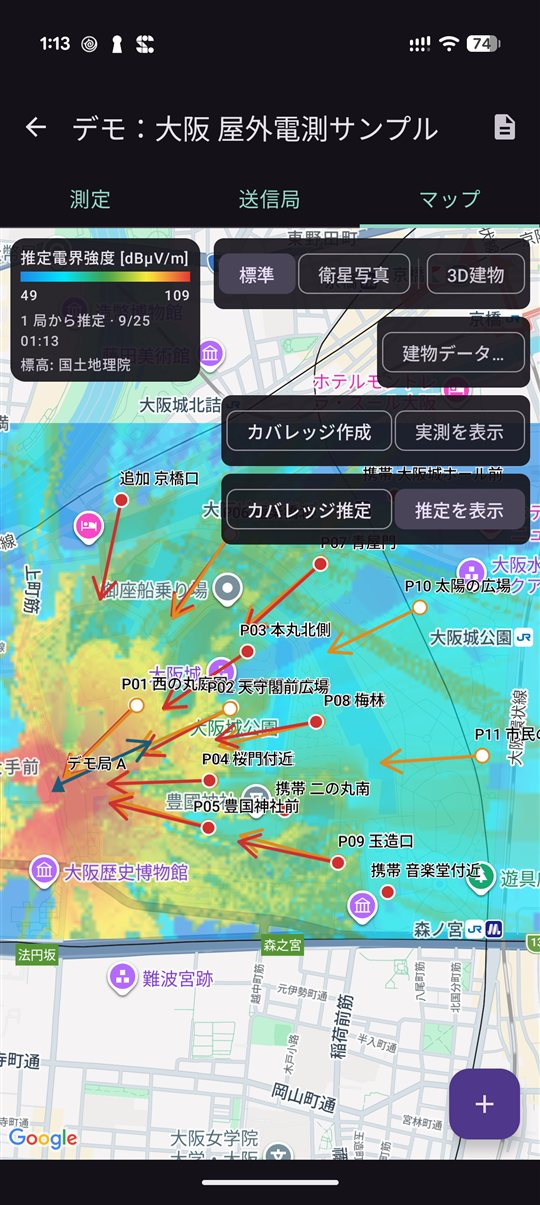
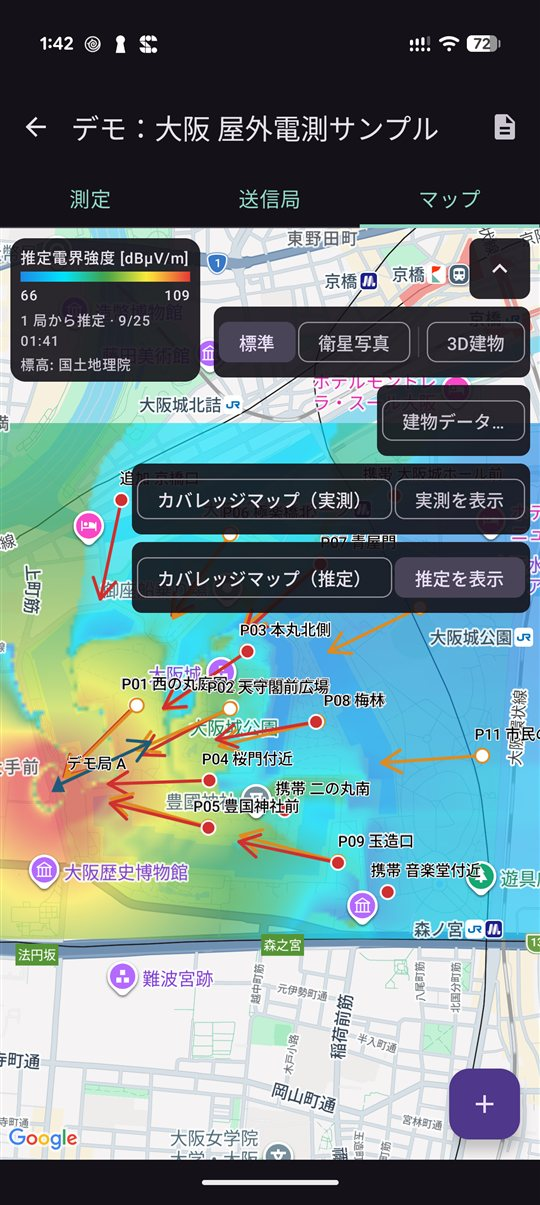
電測記録 1.1.1

diff --git a/radio_survey/privacy-policy.html b/radio_survey/privacy-policy.html
@@ -47,7 +47,7 @@
     <td>なし</td>
   </tr>
   <tr>
-    <td>取り込んだ建物データ・作成したカバレッジマップ・カバレッジ推定の結果・取得した標高データ（次回の推定用の一時保存）・表示の設定</td>
+    <td>取り込んだ建物データ・作成したカバレッジマップ（実測）・カバレッジマップ（推定）の結果・取得した標高データ（次回の推定用の一時保存）・表示の設定</td>
     <td>端末内のアプリ専用領域</td>
     <td>なし</td>
   </tr>
@@ -102,13 +102,13 @@
   <tr>
     <td>国土地理院 標高タイル<br><code>cyberjapandata.gsi.go.jp</code></td>
     <td>推定範囲に必要な標高タイルの番号（タイル座標。送信局と測定点を含む推定範囲に相当します）と、アプリを識別するための User-Agent</td>
-    <td>カバレッジ推定（マップタブの「カバレッジ推定」を押したときだけ）。一度取得した範囲は端末に保存し、次回は通信しません</td>
+    <td>カバレッジマップ（推定）の作成（マップタブの「カバレッジマップ（推定）」を押したときだけ）。一度取得した範囲は端末に保存し、次回は通信しません</td>
   </tr>
 </table>
 
 <p>
 いずれも測定値・写真・メモ・携帯網の記録そのものを送ることはありません。
-ただし、地図を表示する範囲、建物データを取得する範囲、配置図のタイルの位置、カバレッジ推定の標高タイルの位置は、測定点の周辺の場所を示すため、
+ただし、地図を表示する範囲、建物データを取得する範囲、配置図のタイルの位置、カバレッジマップ（推定）の標高タイルの位置は、測定点の周辺の場所を示すため、
 それぞれのサービスに伝わります。これらのサービス側でのアクセス記録（IP アドレスなど）の扱いは、各サービスの規約・ポリシーに従います。
 Google マップでの情報の取り扱いは
 <a href="https://policies.google.com/privacy">Google プライバシーポリシー</a>

diff --git a/radio_survey/README.md b/radio_survey/README.md
@@ -8,20 +8,20 @@
 
 ## ダウンロード
 
-### [APK をダウンロード（v1.1.0・2.2 MB）](https://github.com/kijitora-no-hito/android-apps/releases/download/radiosurvey-v1.1.0/radiosurvey-1.1.0-release.apk)
+### [APK をダウンロード（v1.1.1・2.2 MB）](https://github.com/kijitora-no-hito/android-apps/releases/download/radiosurvey-v1.1.1/radiosurvey-1.1.1-release.apk)
 
 | 項目 | 内容 |
 | --- | --- |
-| バージョン | 1.1.0（2026-09-25） |
-| ファイル | `radiosurvey-1.1.0-release.apk`（2,259,211 バイト） |
[1 lines of base64/hex data omitted]
+| バージョン | 1.1.1（2026-09-25） |
+| ファイル | `radiosurvey-1.1.1-release.apk`（2,262,203 バイト） |
[1 lines of base64/hex data omitted]
 | 対応 Android | 8.0 以上 |
 | 価格 | 無料・広告なし・アプリ内課金なし・アカウント登録なし |
 
 | 権限 | 使いみち |
 | --- | --- |
 | 位置情報（詳細・おおよそ） | 測定点の座標を GPS で取る、地図に現在地を出す、携帯網のセル情報を読む（Android ではセル情報の取得に位置情報の許可が必要です）。使うときに許可を求めます。バックグラウンドでは使いません |
-| インターネット / ネットワーク状態の確認 | 地図、建物データの取得、PDF の配置図の地図、カバレッジ推定の標高データの取得（どちらも許可ダイアログは出ません） |
+| インターネット / ネットワーク状態の確認 | 地図、建物データの取得、PDF の配置図の地図、カバレッジマップ（推定）の標高データの取得（どちらも許可ダイアログは出ません） |
 
 カメラ・写真・ストレージの権限は使いません（撮影は端末のカメラアプリに任せ、レポートは保存先を選んで書き出します）。
 
@@ -53,9 +53,9 @@
 ### 地図
 
 - 実験のマップタブに、送信局と測定点（プラン / 実測）がアンテナ方位の矢印つきで並びます。
-- **カバレッジマップ**: 実測済みの点から電界強度（または RSRP）の面を補間し、色分けで地図に重ねます。
+- **カバレッジマップ（実測）**: 実測済みの点から電界強度（または RSRP）の面を補間し、色分けで地図に重ねます。
 - **建物データ**: 表示している範囲の建物の輪郭を OpenStreetMap から取り込み、高さで色分けした線で重ねます。取り込んだデータは保存され、次回もすぐ表示できます。
-- **カバレッジ推定**: 送信局の設定（位置・高さ・周波数・送信電力・アンテナ利得と向き）と地形・建物データから、エリアの電界強度と各測定点の推定値を計算します。推定値はプランの想定電界強度に取り込んだり、実測との差を確かめたりでき、レポートにも載ります。
+- **カバレッジマップ（推定）**: 送信局の設定（位置・高さ・周波数・送信電力・アンテナ利得と向き）と地形・建物データから、エリアの電界強度と各測定点の推定値を計算します。推定値はプランの想定電界強度に取り込んだり、実測との差を確かめたりでき、レポートにも載ります。
 
 ### レポート
 
@@ -79,11 +79,11 @@
 <td align="center"><img src="images/04-map.jpg" width="220" alt="実験のマップ"><br>マップ（送信局・測定点・アンテナ方位）</td>
 </tr>
 <tr>
-<td align="center"><img src="images/05-coverage.jpg" width="220" alt="カバレッジマップ"><br>カバレッジマップ</td>
+<td align="center"><img src="images/05-coverage.jpg" width="220" alt="カバレッジマップ（実測）"><br>カバレッジマップ（実測）</td>
 <td align="center"><img src="images/06-buildings.jpg" width="220" alt="建物データの重ね表示"><br>建物データ（OpenStreetMap）</td>
 </tr>
 <tr>
-<td align="center"><img src="images/11-estimate.jpg" width="220" alt="カバレッジ推定"><br>カバレッジ推定</td>
+<td align="center"><img src="images/11-estimate.jpg" width="220" alt="カバレッジマップ（推定）"><br>カバレッジマップ（推定）</td>
 <td align="center"><img src="images/12-plan-estimate.jpg" width="220" alt="プランの推定電界強度"><br>プランに推定電界強度を表示</td>
 </tr>
 <tr>
@@ -98,8 +98,8 @@
 
 ## 注意
 
-- 地図・建物データ・PDF の配置図・カバレッジ推定の標高データにはインターネット接続が必要です。機内モードでは地図が出ません（PDF は通信できないと配置図が簡易図に、カバレッジ推定は平らな地面として計算します）。
-- カバレッジ推定の値は計算による目安です。実際の電界強度は測って確かめてください。範囲は送信局と測定点を含めて約 10 km 四方までです。
+- 地図・建物データ・PDF の配置図・カバレッジマップ（推定）の標高データにはインターネット接続が必要です。機内モードでは地図が出ません（PDF は通信できないと配置図が簡易図に、カバレッジマップ（推定）は平らな地面として計算します）。
+- カバレッジマップ（推定）の値は計算による目安です。実際の電界強度は測って確かめてください。範囲は送信局と測定点を含めて約 10 km 四方までです。
 - 地図の表示には Google Play 開発者サービスが必要です（入っていない一部の端末では地図が出ません）。
 - 携帯網の記録には SIM と位置情報の許可が必要です。圏外や SIM 無しでは取れず、端末によって取れる項目が違います。
 - 表示・記録される値は端末で得た目安です。**校正された測定器の代わりにはなりません。**
@@ -122,7 +122,7 @@
 - 地図: Google マップ（Google のロゴと出典は地図上に表示されます）
 - 建物データ: © [OpenStreetMap](https://www.openstreetmap.org/copyright) contributors（ODbL）。[Overpass API](https://overpass-api.de/) で取得
 - PDF の配置図: [国土地理院（地理院タイル）](https://maps.gsi.go.jp/development/ichiran.html)
-- カバレッジ推定の標高: [国土地理院（標高タイル）](https://maps.gsi.go.jp/development/ichiran.html)
+- カバレッジマップ（推定）の標高: [国土地理院（標高タイル）](https://maps.gsi.go.jp/development/ichiran.html)
 
 ## プライバシーポリシー
 
